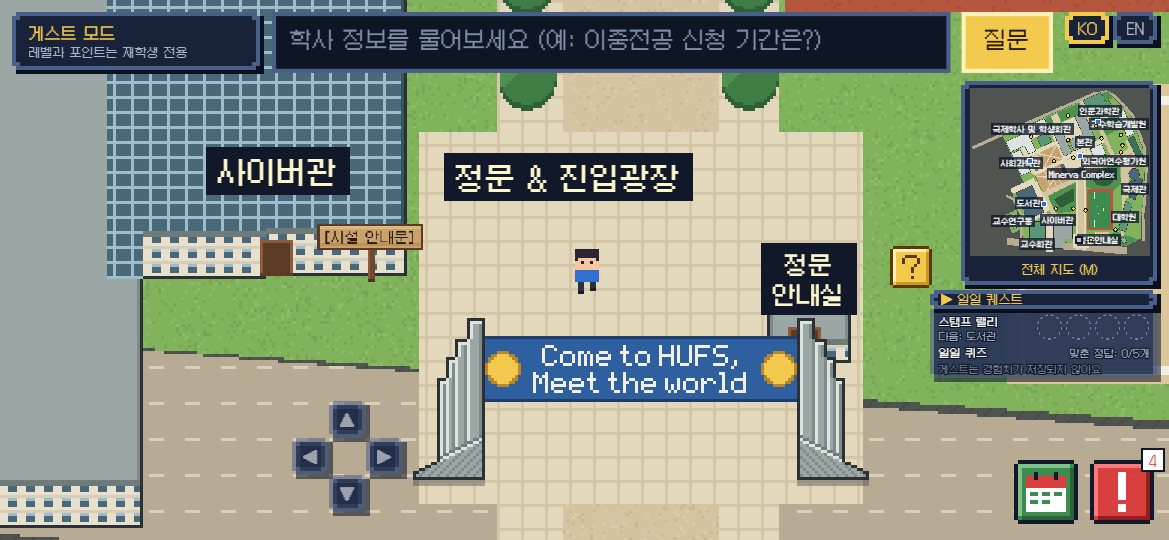
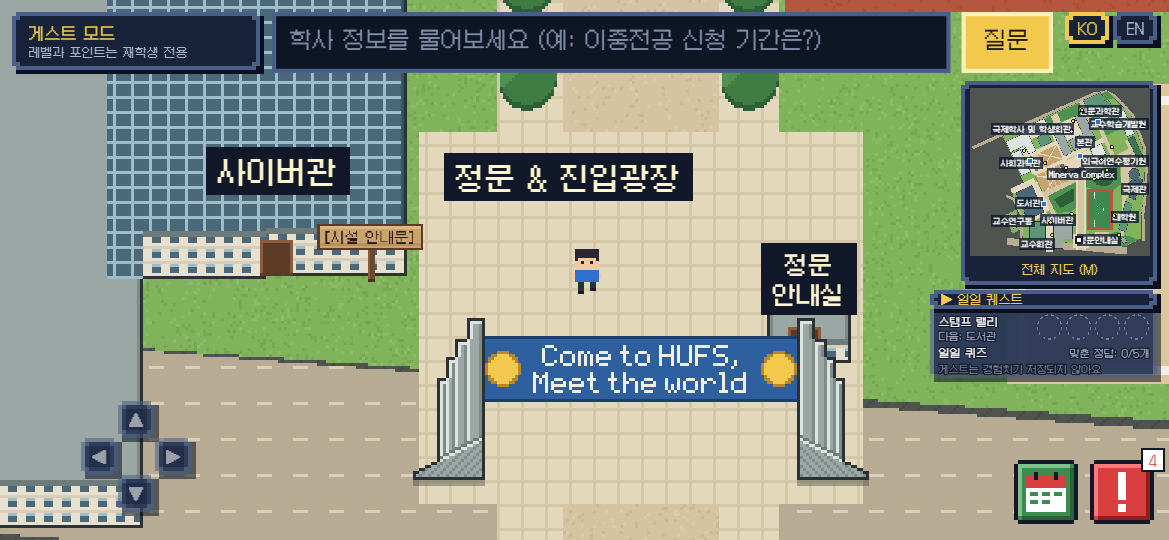
fix: 휴대폰 방향키를 상태창 아래 세로선으로
- 가로로 든 휴대폰에서 방향키가 화면 가운데 쪽이라 불편해, 정중앙 x를 왼쪽 위 상태창 본체의 가로 정중앙(hudLayout.js statusCenterX = MARGIN + STATUS_PANEL.w / 2, 그림자 제외)으로 옮김. 게스트 · 재학생 같은 자리
- 사이버관 팻말 기준 계산과 정문 기둥을 피해 왼쪽으로 비키는 계산(shift) 삭제. 카메라 오프셋 계산은 그대로
- 세로 자리(PAD_LIFT 16px) 그대로, 누르는 범위도 새 중앙 기준(왼쪽 끝은 0에서 자름), PC에는 여전히 없음
- 테스트: 방향키 중앙 x = 상태창 중앙 x(±1px), 휴대폰 가로 1169×540 · 16:9 · 21:9 · 미리보기 700×657(터치), 상태창 · 정문 기둥 · 현수막 · 팻말 · 버튼 줄 · 일일 퀘스트 창과 8px 안 겹침. 일부러 망가뜨려 실패 확인 후 원복
- 캡처: 휴대폰 첫 화면 3장 다시 찍음

Changed region(s): [[0.0616, 0.7407, 0.1848, 0.9778], [0.2464, 0.7407, 0.3695, 0.9778], [0.7391, 0.4444, 0.8007, 0.5333]]

diff --git a/src/ui/firstScreen.js b/src/ui/firstScreen.js
@@ -3,19 +3,19 @@
  * (tests/campusGate.test.js · tests/hudLayout.test.js).
  * - 카메라 가로 오프셋: 오른쪽 위 HUD(미니맵 + 펼친 일일 퀘스트 창)가 정문 기둥 · 현수막 · "정문 안내실" 이름표 ·
  *   "정문 & 진입광장" 이름표를 가리면, 가리는 만큼 + 8px만큼 화면을 옮깁니다(안 가리면 0). 11/27 PM 결정: 이종헌.
- * - 방향키(휴대폰 · 터치만): 정중앙 x = 첫 화면에서 사이버관 "시설 안내문" 팻말의 화면 x. 한 번 정하면 고정.
+ * - 방향키(휴대폰 · 터치만): 정중앙 x = 왼쪽 위 상태창의 가로 정중앙 x(hudLayout.js statusCenterX, 11/28 PM 결정: 이종헌).
  * 맵 v2 기준입니다(옛 맵 ?map=v1에는 정문이 없어 오프셋 0).
  */
 import { BUILDINGS, OPEN_SPACES, SPAWN, WORLD_H, WORLD_W, gateRects } from "../data/campusV2.js";
 import { signArtRect, signSpotOf } from "../data/stampRallySpots.js";
 import { estimateLabelSize, liftClear, placeBuildingLabel } from "../data/buildingLabels.js";
-import { MARGIN, MIN_TOUCH_PX, PANEL_SHADOW, hudButtonRowRect, hudSideLayout, statusRect } from "./hudLayout.js";
+import { MARGIN, MIN_TOUCH_PX, PANEL_SHADOW, hudButtonRowRect, hudSideLayout, statusCenterX, statusRect } from "./hudLayout.js";
 
 export const CAMERA_ZOOM = 3; // 캠퍼스 카메라 배율(CampusScene)
 export const CLEAR_GAP = 8; // 첫 화면에서 HUD와 지켜야 할 여유(px)
 export const CAMERA_OFFSET_MAX = 120; // 이보다 큰 오프셋이 필요하면 배치를 다시 정합니다(테스트가 확인)
 export const PAD_LIFT = 16; // 방향키를 화면 아래 끝(MARGIN)보다 이만큼 위에
-export const PAD_SIGN_ID = "cyber"; // 방향키 가로 자리를 맞출 팻말(사이버관 시설 안내문 팻말)
+export const FIRST_SIGN_ID = "cyber"; // 첫 화면에 보이는 팻말(사이버관 시설 안내문). 방향키 누르는 범위가 이 팻말을 덮지 않게 합니다.
 
 const mapAspect = WORLD_H / WORLD_W;
 const box = (r) => ({ x: r.x0, y: r.y0, w: r.x1 - r.x0, h: r.y1 - r.y0 });
@@ -42,9 +42,9 @@ export function gateThings() {
   return things;
 }
 
-// 사이버관 "시설 안내문" 팻말 자리와 그림 칸(월드 px). 11/27 오후: 안내원 NPC 대신 팻말 기준.
+// 사이버관 "시설 안내문" 팻말 자리와 그림 칸(월드 px). 첫 화면에서 HUD에 가리지 않는지 확인하는 데 씁니다.
 export function signThings() {
-  const s = signSpotOf(BUILDINGS.find((b) => b.id === PAD_SIGN_ID));
+  const s = signSpotOf(BUILDINGS.find((b) => b.id === FIRST_SIGN_ID));
   return { spot: s, art: { name: "사이버관 팻말", ...box(signArtRect(s)) } };
 }
 
@@ -94,9 +94,9 @@ export function cameraOffsetX({ W, H, touch, displayScale = 1 }) {
 export const touchSize = (minimum, displayScale = 1) => Math.ceil(Math.max(minimum, MIN_TOUCH_PX / (displayScale || 1)));
 
 /*
- * 방향키 자리(터치만, PC는 null). 정중앙 x = 첫 화면에서 사이버관 팻말의 화면 x(카메라 오프셋 포함), 화면 밖이면 MARGIN 안쪽으로.
- * 그 자리가 정문 그림을 가리면 가리는 만큼 + 8px 왼쪽으로(shift). 세로는 아래 끝에서 MARGIN + PAD_LIFT 위. 누르는 범위(zone)는 패드 가운데 기준 reach(= 큰 칸 × 3) 정사각형에서
- * 첫 화면의 사이버관 팻말, 정문 그림, 버튼 줄, 일일 퀘스트 창, 상태창과 8px 안 겹치게 잘라 냅니다.
+ * 방향키 자리(터치만, PC는 null). 정중앙 x = 왼쪽 위 상태창 본체의 가로 정중앙 x(statusCenterX, 게스트 · 재학생 같은 자리),
+ * 화면 밖이면 MARGIN 안쪽으로. 세로는 아래 끝에서 MARGIN + PAD_LIFT 위. 누르는 범위(zone)는 패드 가운데 기준 reach(= 큰 칸 × 3) 정사각형을
+ * 화면 안으로 자르고(왼쪽 끝은 0), 첫 화면의 사이버관 팻말, 정문 그림, 버튼 줄, 일일 퀘스트 창, 상태창과 8px 안 겹치게 잘라 냅니다.
  */
 export function padLayout({ W, H, touch, displayScale = 1, offset = cameraOffsetX({ W, H, touch, displayScale }) }) {
   if (!touch) return null;
@@ -105,16 +105,8 @@ export function padLayout({ W, H, touch, displayScale = 1, offset = cameraOffset
   const size = cell * 3;
   const cam = firstCamera({ W, H, offset });
   const sign = signThings();
-  const signX = (sign.spot.x - cam.x) * CAMERA_ZOOM;
   const top = H - MARGIN - size - PAD_LIFT;
-  let left = Math.min(Math.max(signX - size / 2, MARGIN), W - MARGIN - size);
-  // 팻말 x에 맞춘 방향키가 첫 화면의 정문 그림(기둥 · 현수막)을 가리면, 가리는 만큼 + 8px만 왼쪽으로 비킵니다(안 가리면 0).
-  let shift = 0;
-  for (const g of gateRects().map((r) => toScreen(r, cam))) {
-    const p = { x: left, y: top, w: size, h: size };
-    if (rectGap(p, g) < CLEAR_GAP && g.x + g.w / 2 > p.x + p.w / 2) shift = Math.max(shift, p.x + p.w + CLEAR_GAP - g.x);
-  }
-  left = Math.max(MARGIN, left - shift);
+  const left = Math.min(Math.max(statusCenterX() - size / 2, MARGIN), W - MARGIN - size);
   const pad = { x: left, y: top, w: size, h: size };
   const center = { x: left + size / 2, y: top + size / 2 };
   const reach = fullCell * 3;
@@ -134,5 +126,5 @@ export function padLayout({ W, H, touch, displayScale = 1, offset = cameraOffset
     else if (o.x + o.w <= pad.x) zone.x0 = Math.max(zone.x0, o.x + o.w + CLEAR_GAP);
     else if (o.y + o.h <= pad.y) zone.y0 = Math.max(zone.y0, o.y + o.h + CLEAR_GAP);
   }
-  return { cell, fullCell, pad, center, signX, shift, zone: { x: zone.x0, y: zone.y0, w: zone.x1 - zone.x0, h: zone.y1 - zone.y0 } };
+  return { cell, fullCell, pad, center, zone: { x: zone.x0, y: zone.y0, w: zone.x1 - zone.x0, h: zone.y1 - zone.y0 } };
 }

diff --git a/src/scenes/HudScene.js b/src/scenes/HudScene.js
@@ -20,7 +20,7 @@ import { addConfetti, addStampMark, addStampSlot } from "../ui/stampMark.js";
 import { HERE_COLOR, drawQuizDot } from "../ui/quizDot.js";
 
 // 미니맵 · 일일 퀘스트 창 자리는 src/ui/hudLayout.js hudSideLayout(11/27: 오른쪽 위, 미니맵 PC 232px · 휴대폰 194px).
-// 휴대폰 방향키 자리는 src/ui/firstScreen.js padLayout(첫 화면의 사이버관 안내원 화면 x에 맞춤).
+// 휴대폰 방향키 자리는 src/ui/firstScreen.js padLayout(왼쪽 위 상태창의 가로 정중앙 x에 맞춤).
 // 미니맵 건물명: 스탬프 랠리 4곳과 시연 동선 건물을 먼저 놓고, 나머지는 넓은 건물 순. 다른 이름표와 겹치면 숨깁니다.
 const MINIMAP_LABEL_FIRST = ["library", "union", "main", "humanities", "gatehouse", "cyber", "flc", "club"];
 const DAILY_ANIM_MS = 200; // 일일 퀘스트 창 접기 · 펴기
@@ -165,7 +165,7 @@ export class HudScene extends Phaser.Scene {
   }
 
   // 터치 기기에서 캐릭터를 움직이는 방향 패드입니다.
-  // 자리는 src/ui/firstScreen.js padLayout: 정중앙 x = 첫 화면에서 사이버관 안내원의 화면 x(고정, 플레이어를 따라가지 않음),
+  // 자리는 src/ui/firstScreen.js padLayout: 정중앙 x = 왼쪽 위 상태창의 가로 정중앙 x(고정, 플레이어를 따라가지 않음),
   // 세로는 아래에서 MARGIN + PAD_LIFT 위. 누르는 범위도 패드 가운데 기준이고, 첫 화면의 안내원 · 정문 · HUD를 피해 잘라 냅니다.
   renderPad() {
     // 보이는 패드는 작고 반투명하게 그리되, 누르는 범위는 넓게 둡니다. 작아져도 손가락으로 조작하기 쉽게 하기 위해서입니다.

diff --git a/src/ui/hudLayout.js b/src/ui/hudLayout.js
@@ -69,6 +69,8 @@ export function hudButtonRowRect({ W, H, touch }) {
 }
 
 // 상태창 사각형(그림자 포함)
+// 상태창(게스트 모드 창 · 재학생 레벨 창) 본체의 가로 정중앙 x(그림자 제외). 두 창의 폭이 같아 같은 값. 휴대폰 방향키가 이 세로선에 맞춥니다.
+export const statusCenterX = () => MARGIN + STATUS_PANEL.w / 2;
 export const statusRect = (guest) => ({ x: 0, y: 0, w: MARGIN + STATUS_PANEL.w + STATUS_PANEL.shadow, h: MARGIN + (guest ? STATUS_PANEL.guest : STATUS_PANEL.student) + STATUS_PANEL.shadow });
 
 /*

diff --git a/docs/ARCHITECTURE.md b/docs/ARCHITECTURE.md
@@ -130,7 +130,7 @@ class explore,quiz,notice,progress,rules,userDb,login,limiter,mapInfo,newApi,vec
 | 공지 추출 도우미(HCX-007, 연동 대기) | `scripts/extract-notice-hcx007.mjs`(원문 파일 · URL · 선택 게시일) → `scripts/lib/noticeHcx007.mjs`(Structured Outputs · 추론 끔 · 개인정보 사전 검사) → `noticeHcx007Draft.mjs` · `noticeHcx007Date.mjs`(원문 날짜 검증 · 23:59 보완 · 연도 추정 · 복수 마감 · 요일 검증) · 기존 원문 검증 함수 → JSON 초안과 별도 `reviewNotes` 출력. `noticeDraft.mjs` · `notice-draft.mjs`가 게시일 전달 및 검수 메모를 기존 확인 목록에 연결. 실제 공지 데이터에는 메모와 `checked` 미포함. 검증 실패 시 종료 코드 1. 기존 HCX-005 EXTRACTOR 경로 유지, 11/30 담당자 전환 예정. 성능 검증 `docs/NCP_USAGE.md` | 신중혁 |
 | 학교 행사 | `src/ui/eventOverlay.js`(표 창, 공통 틀 `src/ui/hudOverlay.js` · `hudOverlay.css`, 출처 칸 맨 앞 출처 종류 배지 · "행사 제보하기" 링크 — 순수 함수 `src/ui/eventView.js`, 폼 주소 `eventsApi.js` `EVENT_REPORT_URL`이 폼 연결 완료(11/26)) ← `src/data/eventsApi.js`(서버 없으면 기기 계산, `?demoEvents=1`일 때만 [예시]) → `api/events.js`(GET, no-store, `checked.by` 제외) ← `shared/events.js`(팀이 원문을 보고 손 입력, 지금 빈 배열) · `shared/eventCalc.js`(오늘~14일 · 진행 중 계산, 출처 규칙 `eventProblems`). "지도에서 보기" → `MapScene` 건물 강조. 테스트 `tests/events.test.js`. 정적 데이터에는 `sourceType: "crowd"` 금지(`eventProblems`) | 이종헌(화면) · 팀(데이터) |
 | 행사 제보(앱 안, 1단계: DB · 서버) | `api/event-report.js`(POST, 로그인 필수 `authenticateStudent`, 계정당 하루 3회 · env 전체 하루 300회 `event_report_hit`, 후보 묶음 최대 10개 → HCX-007 + Structured Outputs `matchCluster`, 기준 `EVENT_REPORT_THRESHOLD` 기본 5) ← `shared/eventReport.js`(입력 검사 · 전화번호 · 이메일 · 카카오 거절, 칸 · 코드만 돌려줌) → `supabase/008_event_reports.sql`(`event_clusters` · `event_reports` · `event_report_usage`, RLS 정책 없음, `submit_event_report` · `event_report_hit` service_role 전용, **실행 전**). `api/events.js`가 같은 env의 published · confirmed 묶음을 `crowd-<id>`로 합침(Supabase 실패 시 팀 입력 행사만). 테스트 `tests/eventReport.test.js`. **2단계 화면(11/26)**: 행사 창 "행사 제보하기"가 진짜 로그인(`AUTH_MODE` real + 토큰)이면 창 안 제보 폼(`src/ui/eventOverlay.js`, 보내기 전 같은 `validateEventReport` 검사 · 칸 옆 이유, 시각은 `YYYY-MM-DDTHH:MM:00+09:00`), 아니면(게스트 · 가짜 로그인) "로그인하고 제보하기" 버튼 → 캠퍼스를 닫고 타이틀의 로그인 창(`CampusScene.goToLogin` → `TitleScene` `openLogin`). 11/26 게스트 제보 닫음(PM 결정: 이종헌)으로 구글 폼 링크(`EVENT_REPORT_URL`)는 화면에서 안 씀(상수 · 테스트는 남김). 로그인 분기 · 시각 문자열 · 서버 호출 · 응답 문구는 `src/data/eventReportApi.js`, 출처 배지 "학생 제보 R명 · 미확인 / 팀 확인"과 영어 화면 "Original text (Korean)"은 `src/ui/eventView.js`(`sourceBadgeText` · `showOriginalNote`), `?demoEvents=1`에 학생 제보 예시 1개. 테스트 `tests/eventReportUi.test.js`. SQL `008`은 11/26 실행 · 확인(이종헌) | 임현규(DB · 서버) · 이종헌(화면) |
-| HUD | `src/scenes/HudScene.js`. 11/27 배치(PM 결정: 이종헌, 계산은 `src/ui/hudLayout.js` `hudSideLayout`): 왼쪽 위 상태창(그대로), **오른쪽 위 미니맵**(PC 216px · 휴대폰 180px — 11/27 오후 7% 줄임, 오른쪽 선 = 화면 폭 − 12, 위쪽 = 질문창 · KO/EN 아래 끝 + 8px — 질문창 숫자는 `src/ui/searchBarLayout.js`, 휴대폰은 질문창 최소 44px를 게임 좌표로 바꿔 계산, 이름표 8px, 건물명은 한 줄 `name`, 가장자리 이름표는 안쪽으로 당기고 겹치면 비켜 놓음), 그 바로 아래 **일일 퀘스트 창**(오른쪽 선 같음, 접힘 = 오른쪽 끝 탭 "◀ 일일 퀘스트", 펼침 = 왼쪽으로 열리는 낮고 넓은 창 "▶ 일일 퀘스트", 11/27 오후 7% 줄이고 제목 탭만 불투명 · 본문 바탕은 반투명 `DAILY_BODY_ALPHA` 0.55 · 글자는 불투명 + 1px 테두리), 오른쪽 아래 아이콘 버튼 줄(행사 V, 마감 공지 N — 퀘스트 버튼은 일일 퀘스트 창으로 대체, Q 키는 일일 퀘스트 상세 창). **첫 화면**(`src/ui/firstScreen.js`): 오른쪽 위 HUD가 정문 기둥 · 현수막 · 정문 쪽 이름표를 가리면 가리는 만큼 + 8px 카메라를 가로로 옮김(`CampusScene.applyCameraOffset` → `setFollowOffset`, PC 960×540 93px · 휴대폰 가로 844×390 0), 목적지 화살표는 플레이어 화면 위치 기준. 휴대폰 방향키는 정중앙 x = 첫 화면의 사이버관 팻말 화면 x(고정, 정문 기둥을 가리면 가리는 만큼 + 8px 왼쪽으로), 아래에서 12 + 16px(`PAD_LIFT`), 누르는 범위도 패드 가운데 기준. 퀘스트 창 `src/ui/questOverlay.js`. 테스트 `tests/quests.test.js` · `hudLayout.test.js` · `campusGate.test.js` | 이종헌 |
+| HUD | `src/scenes/HudScene.js`. 11/27 배치(PM 결정: 이종헌, 계산은 `src/ui/hudLayout.js` `hudSideLayout`): 왼쪽 위 상태창(그대로), **오른쪽 위 미니맵**(PC 216px · 휴대폰 180px — 11/27 오후 7% 줄임, 오른쪽 선 = 화면 폭 − 12, 위쪽 = 질문창 · KO/EN 아래 끝 + 8px — 질문창 숫자는 `src/ui/searchBarLayout.js`, 휴대폰은 질문창 최소 44px를 게임 좌표로 바꿔 계산, 이름표 8px, 건물명은 한 줄 `name`, 가장자리 이름표는 안쪽으로 당기고 겹치면 비켜 놓음), 그 바로 아래 **일일 퀘스트 창**(오른쪽 선 같음, 접힘 = 오른쪽 끝 탭 "◀ 일일 퀘스트", 펼침 = 왼쪽으로 열리는 낮고 넓은 창 "▶ 일일 퀘스트", 11/27 오후 7% 줄이고 제목 탭만 불투명 · 본문 바탕은 반투명 `DAILY_BODY_ALPHA` 0.55 · 글자는 불투명 + 1px 테두리), 오른쪽 아래 아이콘 버튼 줄(행사 V, 마감 공지 N — 퀘스트 버튼은 일일 퀘스트 창으로 대체, Q 키는 일일 퀘스트 상세 창). **첫 화면**(`src/ui/firstScreen.js`): 오른쪽 위 HUD가 정문 기둥 · 현수막 · 정문 쪽 이름표를 가리면 가리는 만큼 + 8px 카메라를 가로로 옮김(`CampusScene.applyCameraOffset` → `setFollowOffset`, PC 960×540 93px · 휴대폰 가로 844×390 0), 목적지 화살표는 플레이어 화면 위치 기준. 휴대폰 방향키는 정중앙 x = 왼쪽 위 상태창의 가로 정중앙 x(`hudLayout.js` `statusCenterX`, 11/28: 가로로 든 휴대폰에서 화면 가운데 쪽이라 불편해 사이버관 팻말 기준에서 바꿈), 아래에서 12 + 16px(`PAD_LIFT`), 누르는 범위도 패드 가운데 기준. 퀘스트 창 `src/ui/questOverlay.js`. 테스트 `tests/quests.test.js` · `hudLayout.test.js` · `campusGate.test.js` | 이종헌 |
 | 건물 정보 · 맵 기준일 | `src/data/buildingInfo.js`(건물 ID 기준: 이름·용도·층별 사무실·출처·확인일·상태, `MAP_BASE_DATE` · `OFFICIAL_MAP_URL` · `REPORT_FORM_URL` · `REPORT_FORM_PLACE_ENTRY` · `reportFormUrl()`) → `src/data/campus.js`(ID·위치만, 이름은 여기서 붙여 내보냄. `onMap: false`인 장소는 맵에 그리지 않음) · `src/data/npcs.js`(대사 없는 건물은 확인된 용도 표시) · `src/scenes/MapScene.js` `drawMapBasis`(기준일 · 공식 지도 · 신고 버튼, 폼 주소가 비면 신고 버튼 숨김) · `scripts/report-form/`(구글 폼 생성 Apps Script, 건물 이름 목록은 `buildPlaceList.mjs`가 `buildingInfo.js`에서 만듦) · `tests/reportFormUrl.test.js`. **형식·화면 완료, 신고 폼 연결 완료, 근처 건물 미리 채움**(폼에는 건물 이름 하나만 보냄). **11/26 게임 안 신고로 교체(PM 결정: 이종헌)**: 건물 상세 · 전체 지도의 "실제와 달라요 (신고)"는 `src/ui/mapReportOverlay.js`(진짜 로그인이면 폼 — 건물 · 무엇이 다른지 · 설명 200자 · 근거 주소, 게스트 · mock이면 "로그인하고 제보하기") → `api/map-report.js`(로그인 필수, `shared/mapReport.js` 검사 · 연락처는 `contactProblem` 재사용, 하루 5건) → `supabase/010_map_reports.sql`(`map_reports`, 팀이 open → accepted · rejected, accepted면 트리거가 경험치 20 + 009 알림 표 `kind='map'`). `REPORT_FORM_URL` · `reportFormUrl` · `tests/reportFormUrl.test.js`는 화면에서 안 쓰고 남김. 테스트 `tests/mapReport.test.js`. 사무실 안내 창: `src/ui/officeOverlay.js` · `src/ui/officeView.js`(층별 묶음 지하 → 라운지층 → 지상 → 건물 밖, 호실이 있으면 호실만, 묶음 항목 `children`: 층 → 동아리방 · 단과대학 → 하위 목록 → 상세, 위쪽 위치 한 줄 · 뒤로) · `tests/officeView.test.js` · `tests/buildingInfo.test.js`(호수 → 층 `floorFromRoom`, 동아리 66 · 학과 42, AED 없음, 010 없음, 외부 참고 출처). 11/25 길라잡이 76~77p 동아리방 · 80p 학과사무실 · 88p 편의시설 전화 반영 | 이종헌(형식·화면) · 임현규(내용) |
 | 행사 제보 보상 (11/26 PM 결정: 이종헌) | 팀이 Supabase에서 묶음을 `confirmed`로 바꾸면 `supabase/009_event_report_rewards.sql` 트리거 `reward_event_reporters`가 **공개(published_at) 전에 제보한 학생**마다 경험치 20(`shared/progressRules.js` `EVENT_REPORT_REWARD_EXP`, 행사마다 1번 · 하루 상한 없음, `reward_log` source `event-report`)을 주고 `event_reward_notices`에 알림을 남김. 게임은 `src/data/rewardNotices.js`가 재학생(진짜 로그인)일 때 캠퍼스에 들어오자마자 한 번 · 접속 중 15초마다(탭이 보일 때만) `POST /api/reward-notices`(`api/reward-notices.js`, `take_event_reward_notices`로 가져가면 본 것으로 표시, 응답은 건수 · 경험치 합계만)를 불러, `HudScene`이 화면 아래 가운데에 2초 작은 알림(`src/ui/noticeToast.js`, 시설 소개 말풍선과 같은 모양, "+20 EXP" 칩)을 띄우고 진짜 진행 저장이면 경험치를 다시 받아 옴. 화면 확인 `?demoNotice=1`. 테스트 `tests/eventReward.test.js`. **009 11/26 실행 · 확인(이종헌)** | 임현규(DB · 서버) · 이종헌(화면) |
 | 사용량 제한 · 답변 캐시 | `api/_lib/usageLimit.js` (한도 상수 분당 10 · 학생 하루 50 · 게스트 IP 하루 150 · 전체 하루 2000(11/27 500 → 2000). **11/19~ 로그인 학생은 계정 기준**: 요청의 로그인 토큰을 Supabase `/auth/v1/user`로 확인해 `@hufs.ac.kr`이면 "user:<id>" 해시로, 아니면(게스트 · 토큰 오류 · 확인 실패) IP 해시로 셈. 해시 = SHA-256(`ASK_IP_SALT` + 한국 날짜 + 계정 또는 IP), 화면 `src/data/askApi.js`가 로그인 토큰을 붙여 보냄, 1차 메모리 제한 → 2차 `ask_hit`, Supabase 실패 시 메모리 제한으로 대체, **eval 토큰은 11/27부터 `ask_hit`을 부르지 않아 사용자 · 전체 한도에 세지 않음**(인스턴스 메모리 1분 120회만, 로그 `limit: "eval-bypass"`)) ← `api/ask.js`가 첫 AI 호출 전에 호출(429 `{ error, reason, retryAfter }`, 200자 초과 400). DB는 `supabase/003_usage_limits.sql`(11/18 실행). 화면 안내 `src/data/askApi.js`(`busy` · `limit`), 테스트 `tests/usageLimit.test.js`. **사용량 제한은 Preview 확인 전, 답변 캐시는 아직** | 임현규 · 신중혁 |
@@ -227,3 +227,4 @@ class explore,quiz,notice,progress,rules,userDb,login,limiter,mapInfo,newApi,vec
 | 2026-11-27 | HUD 배치 변경(PM 결정: 이종헌): 미니맵(232 · 194px)과 일일 퀘스트 창을 오른쪽 위로, 첫 화면 카메라 가로 오프셋(정문이 가리면), 휴대폰 방향키를 사이버관 안내원 화면 x에. 파일 표 HUD 줄 갱신(상자 · 연결선 변화 없음), 새 파일 `src/ui/firstScreen.js` · `src/ui/searchBarLayout.js` | 일일 퀘스트 PR |
 | 2026-11-27 | 오후 다듬기(PM 결정: 이종헌): 미니맵 · 일일 퀘스트 창 7% 줄임 · 본문 반투명, 팻말 · 부스 80% · 팻말 외벽에 붙임 · 부스 거리 1.5배, 안내원 NPC → 팻말 13곳, 출입문 그림 1.5배, 가로수 정리(100 → 49그루, 11/27 저녁에 보도 가장자리 가로수 줄 32그루를 되살려 81그루 `TREE_ROW`), 지도 위 내 위치 표시 흰색(`HERE_COLOR`). 파일 표 HUD · 일일 퀘스트 줄 갱신(상자 · 연결선 변화 없음), 새 테스트 `tests/campusTrees.test.js` | 일일 퀘스트 PR |
 | 2026-11-27 | 근거에 없는 연락처 · 주소 검사(`api/_lib/contactGuard.js` `unsupportedContacts`, PM 결정: 이종헌): 주요 흐름 5번 · 빠른 검색창 파일 표 갱신(상자 · 연결선 변화 없음) | 연락처 검사 PR |
+| 2026-11-28 | 휴대폰 방향키 가로 자리를 왼쪽 위 상태창의 가로 정중앙 세로선으로(PM 결정: 이종헌). 사이버관 팻말 기준 · 정문 기둥 비킴 계산 삭제. 파일 표 HUD 줄 갱신(상자 · 연결선 변화 없음) | `fix/dpad-left` |
